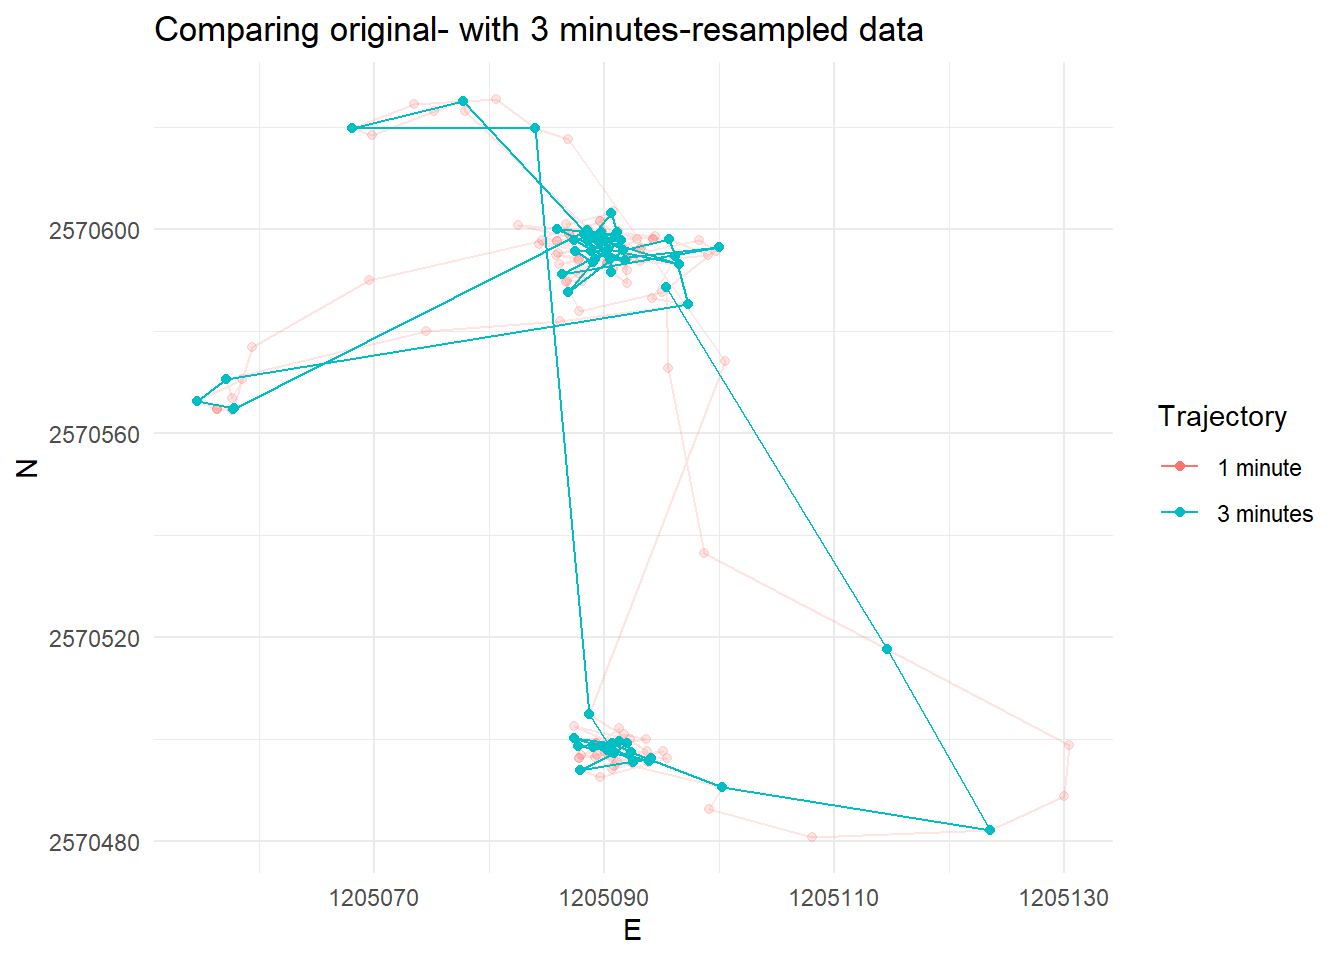
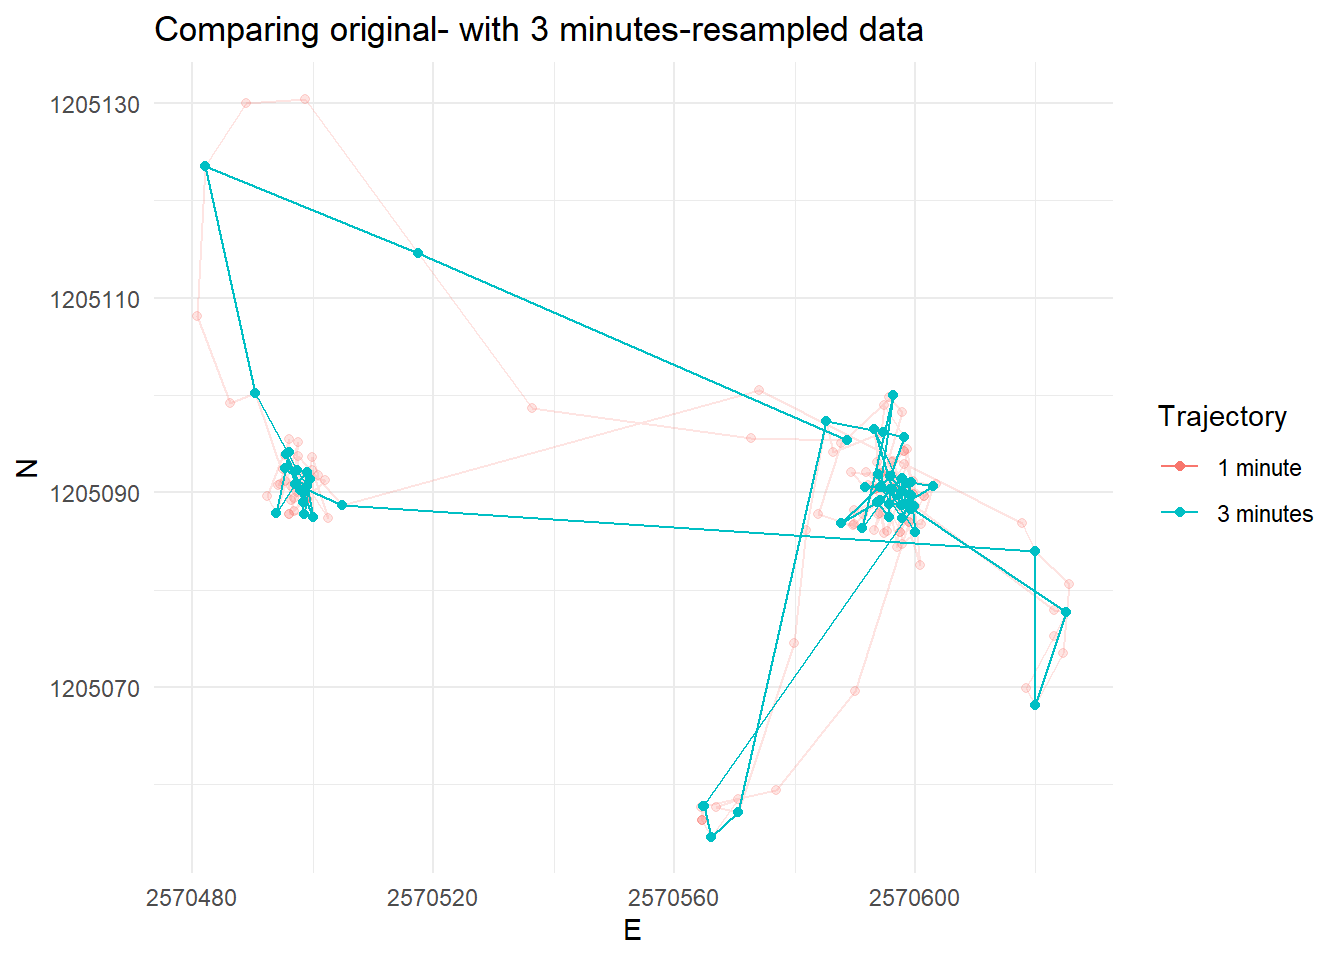
Rebuilding book after resolving E <-> N mixup (https://github.com/ComputationalMovementAnalysis/utterances/issues/1#)

diff --git a/docs/W03_04_tasks_and_inputs.html b/docs/W03_04_tasks_and_inputs.html
@@ -403,18 +403,18 @@ Then use <code>segment_ID</code> as a grouping variable to determine the segment
 <span id="cb54-3"><a href="W03_04_tasks_and_inputs.html#cb54-3" aria-hidden="true" tabindex="-1"></a></span>
 <span id="cb54-4"><a href="W03_04_tasks_and_inputs.html#cb54-4" aria-hidden="true" tabindex="-1"></a>caro60</span>
 <span id="cb54-5"><a href="W03_04_tasks_and_inputs.html#cb54-5" aria-hidden="true" tabindex="-1"></a><span class="do">## # A tibble: 200 x 9</span></span>
-<span id="cb54-6"><a href="W03_04_tasks_and_inputs.html#cb54-6" aria-hidden="true" tabindex="-1"></a><span class="do">##    TierID TierName CollarID DatetimeUTC                N       E stepMean static</span></span>
+<span id="cb54-6"><a href="W03_04_tasks_and_inputs.html#cb54-6" aria-hidden="true" tabindex="-1"></a><span class="do">##    TierID TierName CollarID DatetimeUTC                E       N stepMean static</span></span>
 <span id="cb54-7"><a href="W03_04_tasks_and_inputs.html#cb54-7" aria-hidden="true" tabindex="-1"></a><span class="do">##    &lt;chr&gt;  &lt;chr&gt;       &lt;dbl&gt; &lt;dttm&gt;                 &lt;dbl&gt;   &lt;dbl&gt;    &lt;dbl&gt; &lt;lgl&gt; </span></span>
-<span id="cb54-8"><a href="W03_04_tasks_and_inputs.html#cb54-8" aria-hidden="true" tabindex="-1"></a><span class="do">##  1 010C   Caro        13973 2015-09-15 08:07:00 2570589.  1.21e6     NA   NA    </span></span>
-<span id="cb54-9"><a href="W03_04_tasks_and_inputs.html#cb54-9" aria-hidden="true" tabindex="-1"></a><span class="do">##  2 010C   Caro        13973 2015-09-15 08:08:00 2570573.  1.21e6     NA   NA    </span></span>
-<span id="cb54-10"><a href="W03_04_tasks_and_inputs.html#cb54-10" aria-hidden="true" tabindex="-1"></a><span class="do">##  3 010C   Caro        13973 2015-09-15 08:09:00 2570536.  1.21e6     NA   NA    </span></span>
-<span id="cb54-11"><a href="W03_04_tasks_and_inputs.html#cb54-11" aria-hidden="true" tabindex="-1"></a><span class="do">##  4 010C   Caro        13973 2015-09-15 08:10:00 2570518.  1.21e6     22.2 FALSE </span></span>
-<span id="cb54-12"><a href="W03_04_tasks_and_inputs.html#cb54-12" aria-hidden="true" tabindex="-1"></a><span class="do">##  5 010C   Caro        13973 2015-09-15 08:11:00 2570499.  1.21e6     26.4 FALSE </span></span>
-<span id="cb54-13"><a href="W03_04_tasks_and_inputs.html#cb54-13" aria-hidden="true" tabindex="-1"></a><span class="do">##  6 010C   Caro        13973 2015-09-15 08:12:00 2570489.  1.21e6     25.1 FALSE </span></span>
-<span id="cb54-14"><a href="W03_04_tasks_and_inputs.html#cb54-14" aria-hidden="true" tabindex="-1"></a><span class="do">##  7 010C   Caro        13973 2015-09-15 08:13:00 2570482.  1.21e6     20.1 FALSE </span></span>
-<span id="cb54-15"><a href="W03_04_tasks_and_inputs.html#cb54-15" aria-hidden="true" tabindex="-1"></a><span class="do">##  8 010C   Caro        13973 2015-09-15 08:14:00 2570481.  1.21e6     22.0 FALSE </span></span>
-<span id="cb54-16"><a href="W03_04_tasks_and_inputs.html#cb54-16" aria-hidden="true" tabindex="-1"></a><span class="do">##  9 010C   Caro        13973 2015-09-15 08:15:00 2570486.  1.21e6     19.6 FALSE </span></span>
-<span id="cb54-17"><a href="W03_04_tasks_and_inputs.html#cb54-17" aria-hidden="true" tabindex="-1"></a><span class="do">## 10 010C   Caro        13973 2015-09-15 08:16:00 2570490.  1.21e6     14.2 FALSE </span></span>
+<span id="cb54-8"><a href="W03_04_tasks_and_inputs.html#cb54-8" aria-hidden="true" tabindex="-1"></a><span class="do">##  1 010C   Caro        13973 2015-09-15 08:07:00 2570589.  1.21e6    NA    NA    </span></span>
+<span id="cb54-9"><a href="W03_04_tasks_and_inputs.html#cb54-9" aria-hidden="true" tabindex="-1"></a><span class="do">##  2 010C   Caro        13973 2015-09-15 08:08:00 2570573.  1.21e6    NA    NA    </span></span>
+<span id="cb54-10"><a href="W03_04_tasks_and_inputs.html#cb54-10" aria-hidden="true" tabindex="-1"></a><span class="do">##  3 010C   Caro        13973 2015-09-15 08:09:00 2570536.  1.21e6    NA    NA    </span></span>
+<span id="cb54-11"><a href="W03_04_tasks_and_inputs.html#cb54-11" aria-hidden="true" tabindex="-1"></a><span class="do">##  4 010C   Caro        13973 2015-09-15 08:10:00 2570518.  1.21e6    53.8  FALSE </span></span>
+<span id="cb54-12"><a href="W03_04_tasks_and_inputs.html#cb54-12" aria-hidden="true" tabindex="-1"></a><span class="do">##  5 010C   Caro        13973 2015-09-15 08:11:00 2570499.  1.21e6    41.2  FALSE </span></span>
+<span id="cb54-13"><a href="W03_04_tasks_and_inputs.html#cb54-13" aria-hidden="true" tabindex="-1"></a><span class="do">##  6 010C   Caro        13973 2015-09-15 08:12:00 2570489.  1.21e6    24.4  FALSE </span></span>
+<span id="cb54-14"><a href="W03_04_tasks_and_inputs.html#cb54-14" aria-hidden="true" tabindex="-1"></a><span class="do">##  7 010C   Caro        13973 2015-09-15 08:13:00 2570482.  1.21e6    17.1  FALSE </span></span>
+<span id="cb54-15"><a href="W03_04_tasks_and_inputs.html#cb54-15" aria-hidden="true" tabindex="-1"></a><span class="do">##  8 010C   Caro        13973 2015-09-15 08:14:00 2570481.  1.21e6    13.4  FALSE </span></span>
+<span id="cb54-16"><a href="W03_04_tasks_and_inputs.html#cb54-16" aria-hidden="true" tabindex="-1"></a><span class="do">##  9 010C   Caro        13973 2015-09-15 08:15:00 2570486.  1.21e6     9.05 FALSE </span></span>
+<span id="cb54-17"><a href="W03_04_tasks_and_inputs.html#cb54-17" aria-hidden="true" tabindex="-1"></a><span class="do">## 10 010C   Caro        13973 2015-09-15 08:16:00 2570490.  1.21e6    10.1  FALSE </span></span>
 <span id="cb54-18"><a href="W03_04_tasks_and_inputs.html#cb54-18" aria-hidden="true" tabindex="-1"></a><span class="do">## # ... with 190 more rows, and 1 more variable: segment_id &lt;fct&gt;</span></span></code></pre></div>
 <p><img src="patterns-and-trends_files/figure-html/unnamed-chunk-75-1.png" width="672" /></p>
 </div>

diff --git a/docs/W01_04_preparations.html b/docs/W01_04_preparations.html
@@ -288,7 +288,7 @@ code span.wa { color: #60a0b0; font-weight: bold; font-style: italic; } /* Warni
 <li>don’t have the current <em>major</em> version or</li>
 <li>are lagging two (or more) versions behind the current <em>minor release</em></li>
 </ul>
-<p>In the time of writing (April, 2021), the current <code>R</code> Version is 4.0.5 (released on 2021-03-31 07:05:15, see <a href="https://cran.r-project.org/">cran.r-project.org</a>). Your installation should therefore not be older than 4.0.0. If it is, make sure that you have updated R until next week (doing it now will probably take too long). Check <a href="https://www.linkedin.com/pulse/3-methods-update-r-rstudio-windows-mac-woratana-ngarmtrakulchol/">these instructions on how to update R</a></p>
+<p>In the time of writing (May, 2021), the current <code>R</code> Version is 4.0.5 (released on 2021-03-31 07:05:15, see <a href="https://cran.r-project.org/">cran.r-project.org</a>). Your installation should therefore not be older than 4.0.0. If it is, make sure that you have updated R until next week (doing it now will probably take too long). Check <a href="https://www.linkedin.com/pulse/3-methods-update-r-rstudio-windows-mac-woratana-ngarmtrakulchol/">these instructions on how to update R</a></p>
 </div>
 <div id="check-your-version-of-rstudio" class="section level3">
 <h3>Check your version of RStudio</h3>

diff --git a/docs/W02_03_preparation.html b/docs/W02_03_preparation.html
@@ -347,7 +347,7 @@ Report this URL back to us via Moodle (under <em>L2 Data Issues &gt; R Exercises
 <li>Change the parent directory (<code>Create project as a subdirectory of</code>) to your equivalent of <code>C:/Users/yourname/semester2/Modul_CMA/week2</code></li>
 </ul>
 <p>Click on “Create Project.” You are now all set and can start with this week’s tasks!</p>
-<p><strong>PS</strong>: You just created an RStudio Project which is automatically connected to Github. You can also connect existing local Git repositories (e.g. from week 1) to Github. Contact us if you are interested in learning this!</p>
+<p><strong>PS</strong>: You just created an RStudio Project which is automatically connected to Github. You can also connect existing local Git repositories (e.g. from week 1) to Github. You have the chance to learn this in <a href="W03_03_preparation.html#w3-preparation">Week 3</a>.</p>
 <!-- ### Connect your local repo with the remote repository -->
 <!-- **Typically, you do this once per project** -->
 <!-- In RStudio, open the RStudio project from week 1. Open the terminal[^terminal2] and follow the instructions described in *…or push an existing repository from the command line* in the website you were just forwarded to on Github (under https://github.com/YOUR-GITHUB-USERNAME/cma-week1). These instructions should look something like this: -->

diff --git a/docs/W02_05_tasks_and_inputs.html b/docs/W02_05_tasks_and_inputs.html
@@ -381,7 +381,7 @@ Figure 2: Black points are used in calculation of movement parameters (e.g. spe
 <p>Now calculate <code>timelag</code>, <code>steplength</code> and <code>speed</code> for these data sets, just as you did in the <a href="W02_05_tasks_and_inputs.html#w2-task2">last task</a>. To finish the task, compare the speeds visually in a line plot and also visualize the trajectories in a map (see examples below). Interpret the line plot, what do the different lines for the different temporal granularities tell you?</p>
 <p>After completing the task, commit your changes to git using a good commit message.</p>
 <pre><code>## # A tibble: 67 x 6
-##    TierID TierName CollarID DatetimeUTC                N        E
+##    TierID TierName CollarID DatetimeUTC                E        N
 ##    &lt;chr&gt;  &lt;chr&gt;       &lt;dbl&gt; &lt;dttm&gt;                 &lt;dbl&gt;    &lt;dbl&gt;
 ##  1 010C   Caro        13973 2015-09-15 08:07:00 2570589. 1205095.
 ##  2 010C   Caro        13973 2015-09-15 08:10:00 2570518. 1205115.

diff --git a/docs/index.html b/docs/index.html
@@ -279,7 +279,7 @@ code span.wa { color: #60a0b0; font-weight: bold; font-style: italic; } /* Warni
 <h1 class="title">Computational Movement Analysis: Patterns and Trends in Environmental Data</h1>
 <h2 class="subtitle"><em>Master ENR, Spring Semester 2021</em></h2>
 <p class="author"><em>Patrick Laube, Nils Ratnaweera, Nikolaos Bakogiannis</em></p>
-<p class="date"><em>30 April, 2021</em></p>
+<p class="date"><em>03 May, 2021</em></p>
 </div>
 <div id="welcome-to-the-course" class="section level1 unnumbered">
 <h1>Welcome to the course!</h1>
